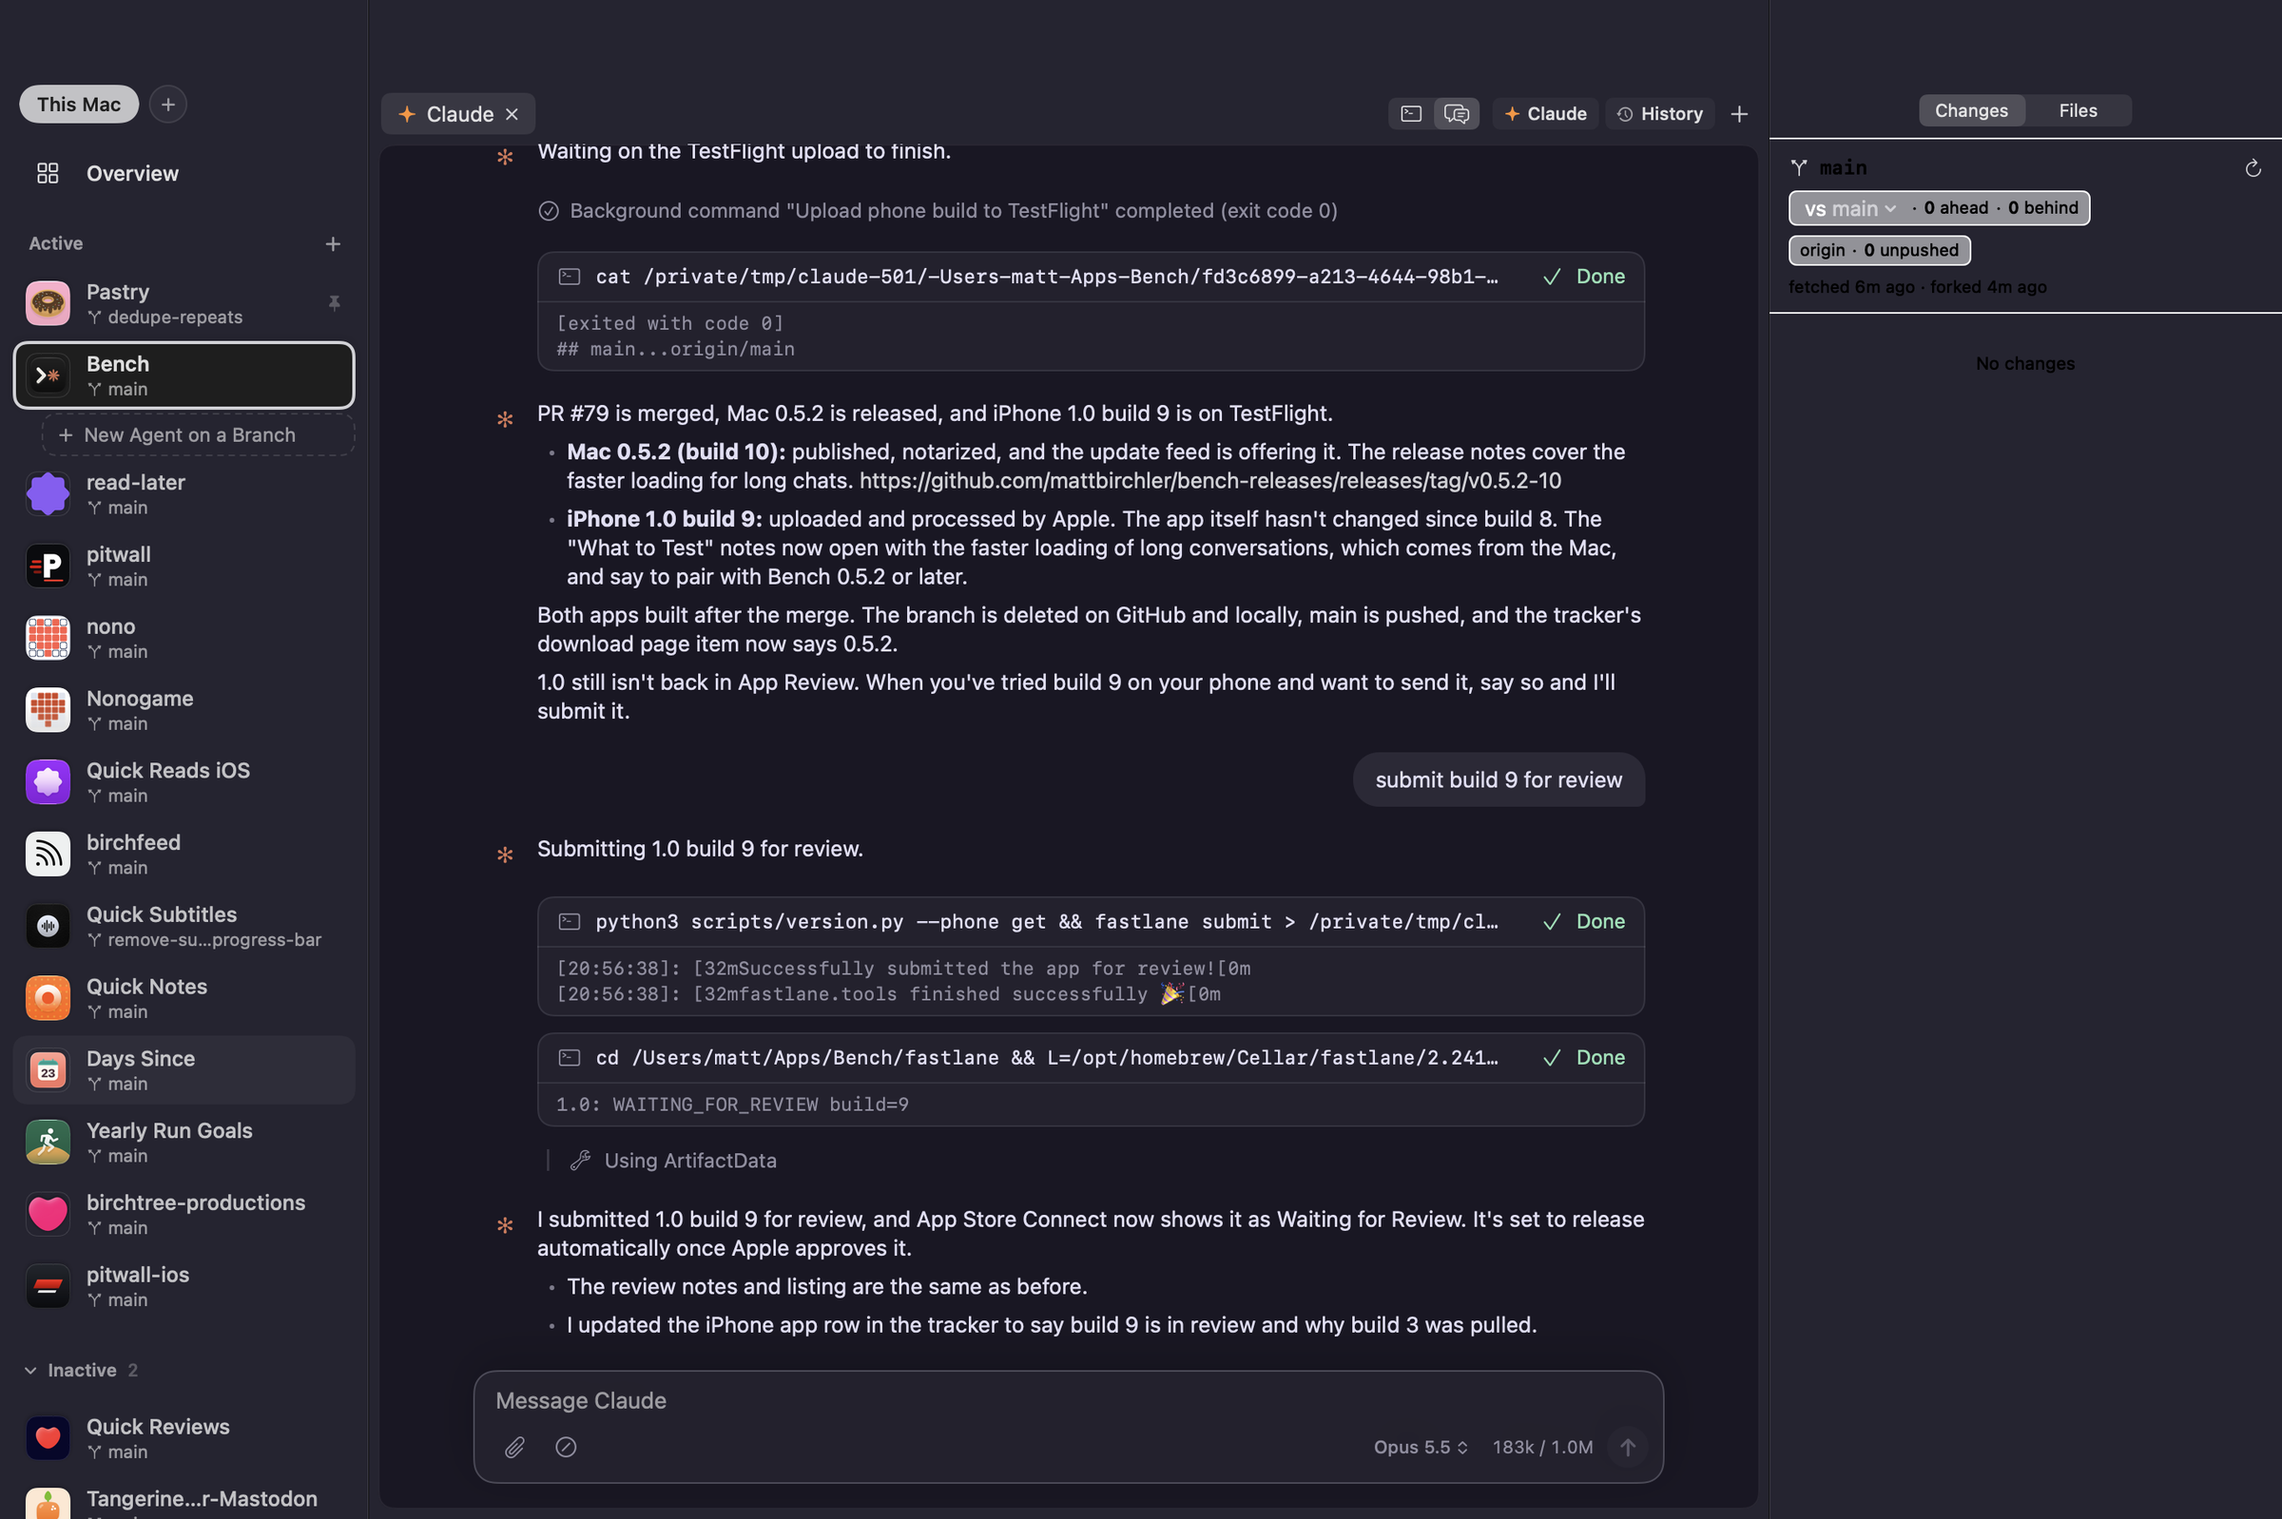
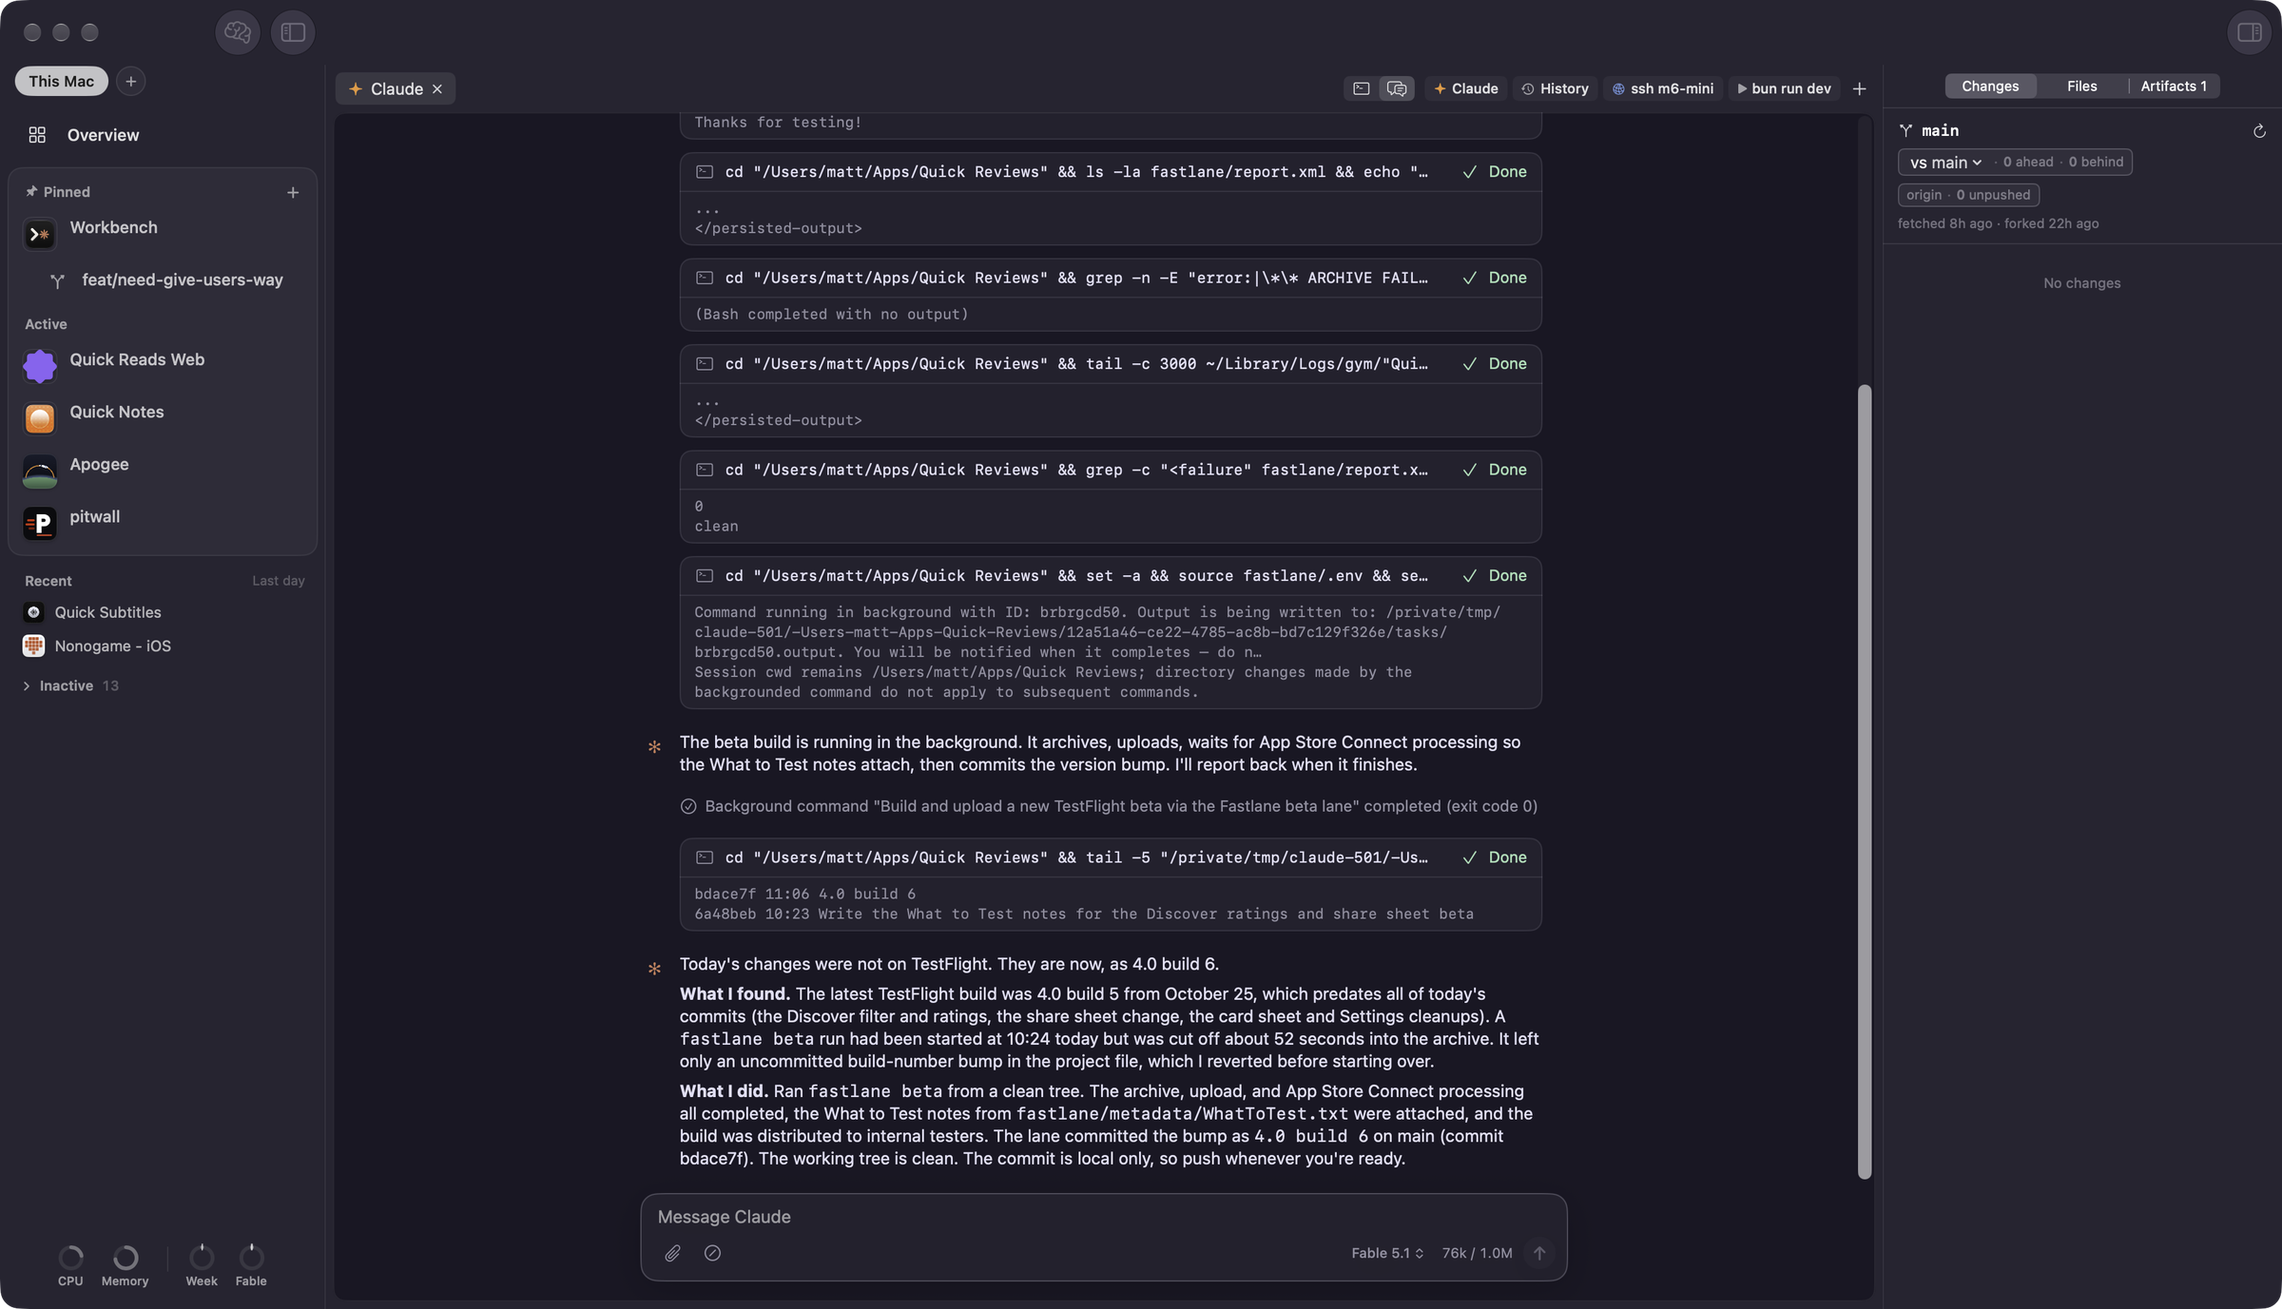
README: new screenshots and feature descriptions for Workbench 0.7.16
Fresh Mac shots of the chat view, start page, diff, welcome, and six
themes, and iPhone shots from the demo. Covers Brain Dump, the four
sidebar sections, per-project notifications, the Lock Screen dashboard,
more of what other Macs and the phone can do, and the usage data opt-out.

diff --git a/README.md b/README.md
@@ -17,69 +17,75 @@
 </p>
 
 <p align="center">
-  <img src="images/mac-chat.png" alt="Workbench on the Mac: a Claude Code session shown as a chat, with command cards, the model and context use in the message box, and projects sorted into Active and Inactive">
+  <img src="images/mac-chat.png" alt="Workbench on the Mac: a Claude Code session shown as a chat with command cards and a summary of a finished TestFlight upload, the sidebar sorted into Pinned, Active, Recent and Inactive, and the changes panel on the right">
 </p>
 
 ---
 
 ## Terminal or chat, same session
 
-Claude Code runs in a real terminal in every Claude tab, built on Ghostty, so it uses your font, theme, and keybindings. Press ⌥⌘T and the same session turns into a chat: edits show as diffs, commands fold their output away, and questions and permission prompts become cards with real buttons. It's still Claude Code underneath, so you can flip back any time. Choose which one new tabs open as in Settings.
+Claude Code runs in a real terminal in every Claude tab, built on Ghostty, so it uses your font, theme, and keybindings. Press ⌥⌘T and the same session turns into a chat: edits show as diffs, commands fold their output away, and questions and permission prompts become cards with real buttons. It's still Claude Code underneath, so you can flip back any time. Pick which one new tabs open as in Settings > Claude.
 
 The chat view has the touches you'd expect from a messaging app:
 
 - **Your message shows the instant you send it,** and new turns glide in.
 - **Claude's suggested next message** shows faintly in the empty message box. Press Right Arrow or Tab to take it.
+- **Slash commands autocomplete** as you type `/`: the built-in ones, your own, the project's, and your skills.
 - **Queued messages** can be edited, removed, or sent right away (Control-Return), like Ctrl+Return in the terminal.
-- **Subagents get cards** that show what each one is doing right now, and stay pinned in the sidebar while they run.
-- **The model and context** sit in the message box, like "Opus 5.5" and "183k / 1M". Click the model to switch.
-- **Compact or clear** from the / menu, and Shift-Return for a new line.
+- **Subagents get cards** that show what each one is doing right now. With the right panel hidden, the task list or the running agents stay pinned above the message box.
+- **The model and context** sit in the message box, like "Opus 5.5" and "76k / 1M". Click the model to switch.
+- **Compact or clear** from the / button, and Shift-Return for a new line.
 
 ## Every project gets its own workspace
 
-Add a project folder and Workbench gives it tabs for Claude, shells, files, and diffs, side by side. The sidebar shows each project's branch, pull request, and whether Claude is working, waiting on you, or done.
+Add a project folder and Workbench gives it tabs for Claude, shells, files, diffs, and previews of your dev server, side by side. The sidebar shows each project's branch, pull request, and whether Claude is working, waiting on you, or done. Rest the pointer on a project to see what Claude is doing, what it's asking, and a one-line recap of what it last finished.
 
-**Active projects sort themselves.** Projects you've worked in lately sit under Active, newest first, counting work Claude Code remembers from outside Workbench too. Pin the ones you always want on top. The rest fold away under Inactive and come back as soon as you use them.
+**Projects sort themselves.** Pin the ones you always want on top. Projects Claude is working in, or that you used in the last few hours, sit under Active. The ones from the last day are under Recent, and the rest fold away under Inactive until you use them again. Work Claude Code remembers from outside Workbench counts too.
 
-**Every project has a start page.** When a project has no tabs open, or you press +, you get a big Start Claude button, a shell, an agent, your shortcuts, and your last few conversations to pick back up in one click.
+**Every project has a start page.** When a project has no tabs open, or you press +, you get a big Start Claude button, a shell, an agent on a new branch, your shortcuts, and your last few conversations to pick back up in one click.
 
 <p align="center">
-  <img src="images/mac-start.png" alt="A project's start page in Workbench: the project icon, a Start Claude button, Shell and Agent on a Branch, and four recent conversations to resume">
+  <img src="images/mac-start.png" alt="A project's start page in Workbench: the project icon, a Start Claude button, Shell, Agent on a Branch, two shortcuts, and four recent conversations to pick back up">
 </p>
 
 ## See the changes as Claude makes them
 
-The changes panel lists every file Claude touches, live, with additions and deletions. Click one for a full diff, or switch to Files to browse the rest of the project. Stage what you like, and see which commits your branch has that the base branch doesn't.
+The changes panel lists every file Claude touches, live, grouped by folder with additions and deletions. Click one for a full diff, and leave comments on lines to send back to Claude. Switch to Files to browse the rest of the project, or Artifacts for the pages Claude has published. The branch header shows how far ahead or behind the base branch you are, and you can pick which branch to compare against.
 
 <p align="center">
-  <img src="images/mac-diff.png" alt="A diff tab in Workbench next to the list of changed files">
+  <img src="images/mac-diff.png" alt="A diff tab in Workbench showing added lines in a Swift file, next to the changes panel listing the file as unstaged">
 </p>
 
 ## Hand work to agents on their own branches
 
-Start an agent with a prompt and Workbench gives it a fresh git worktree, so it can't step on what you're doing. Each agent shows up under its project with its own status, its pull request, and whether checks passed. When the PR merges, Workbench can clean up the worktree for you.
+Start an agent with a prompt and Workbench gives it a fresh git worktree on its own branch, so it can't step on what you're doing. Each agent shows up under its project with its own status, its pull request, and whether checks passed. After a pull request merges, Workbench follows the deploy on hosts like Vercel and Railway. Clean up the worktree with one click, or have Workbench do it for you once the PR merges.
+
+**Brain Dump** (⌥⌘N, or the brain button at the top of the sidebar) starts several at once. Describe everything you want done across your projects, and Claude splits it into one task per project, each with a branch and a prompt you can edit. Nothing starts until you click Start.
 
 ## Looks like your terminal
 
-Workbench takes on your Ghostty theme's colors for its sidebars, chat, and diffs, and goes light or dark to match. Here's the same session in Catppuccin Mocha, Catppuccin Latte, Dracula, Solarized Light, Gruvbox Dark, and Lumen.
+Workbench takes on your Ghostty theme's colors for its sidebars, chat, and diffs, and switches between light and dark with your Mac. Here's the same session in Catppuccin Mocha, Catppuccin Latte, Dracula, Solarized Light, Gruvbox Dark, and Rosé Pine.
 
 <p align="center">
-  <img src="images/themes.png" alt="The same Workbench window in six terminal themes: Catppuccin Mocha, Catppuccin Latte, Dracula, Solarized Light, Gruvbox Dark, and Lumen">
+  <img src="images/themes.png" alt="The same Workbench window in six terminal themes: Catppuccin Mocha, Catppuccin Latte, Dracula, Solarized Light, Gruvbox Dark, and Rosé Pine">
 </p>
 
 ## Keep an eye on it from your iPhone
 
-The Workbench iPhone app connects to your Mac over your own Tailscale network. See every session at a glance, read along as Claude works, answer its questions, tap Allow or Deny when it asks permission, reply with a message or a photo, stop it mid-step, and review diffs from the couch. A notification and a Live Activity tell you when Claude needs you or finishes.
+The Workbench iPhone app connects to your Mac over your own Tailscale network. Sessions that need you sit at the top, then the ones Claude is working on, then the ones that are done. Read along as Claude works, answer its questions, tap Allow or Deny when it asks permission, reply with a message or a photo, stop it mid-step, and review diffs from the couch. You can also start new Claude tabs and agents, run Brain Dump, browse a project's files, and run shortcuts like your dev server on the Mac.
+
+- **Notifications for the projects you choose.** On the Mac, right-click a project and choose Send Notifications to iPhone. You'll hear when Claude needs you, when it finishes, and when checks and deploys are done.
+- **A Lock Screen dashboard.** Tap the phone button at the top of your project list to put every session on your Lock Screen at once, kept up to date by your Mac.
 
 <p align="center">
-  <img src="images/iphone.png" alt="The Workbench iPhone app: the project list with Active and Inactive sections, a working session with a live subagent and checklist, and a finished session with a suggested reply" width="900">
+  <img src="images/iphone.png" alt="The Workbench iPhone app: the project list with sessions that need you, are working, and are done; a working session with its checklist and a running subagent; and a permission prompt with Allow and Deny" width="900">
 </p>
 
-The iPhone app is in beta on TestFlight. Your code goes straight from your Mac to your phone and never through anyone's servers.
+The iPhone app is in beta on TestFlight and needs iOS 27. It also runs as a full iPad app.
 
 ## A welcome that sets you up
 
-The first time you open Workbench, it checks your Mac for the tools it uses, asks whether you'd like Claude tabs as a terminal or a chat, matches your theme, suggests projects from the folders you've already used Claude Code in, and pairs your iPhone. Help > Welcome to Workbench shows it again.
+The first time you open Workbench, it checks your Mac for the tools it uses, including whether Claude Code is signed in, and offers to sign you in right there. Then it asks whether you'd like Claude tabs as a terminal or a chat, matches your theme, suggests projects from the folders you've already used Claude Code in, and pairs your iPhone. Help > Welcome to Workbench shows it again.
 
 <p align="center">
   <img src="images/mac-welcome.png" alt="The Workbench welcome screen with the app icon, a short description, and a Get Started button">
@@ -87,14 +93,16 @@ The first time you open Workbench, it checks your Mac for the tools it uses, ask
 
 ## And a lot of small things
 
-- **Overview.** Every Claude session across every project in one grid, with the ones that need you first.
-- **One-click shortcuts.** Add your own tab shortcuts for commands you run all the time, and get a dev server button in JavaScript projects.
-- **Pick up where you left off.** Resume past Claude conversations from History or a project's start page, and Workbench brings your tabs back when it relaunches.
+- **Overview.** Every Claude session across every project in one grid, with the ones that need you first (⌘0). ⌘J jumps to the next session that needs you.
+- **Go anywhere.** ⌘K opens a command bar for any project or action.
+- **Your plan's limits.** Rings at the bottom of the sidebar show your 5-hour, weekly, and per-model limits next to your Mac's CPU and memory. They stay grey until they need your attention.
+- **Usage and costs.** See what your sessions would cost at API prices, by day, model, and project (⇧⌘U).
+- **One-click shortcuts.** Add tab shortcuts for commands you run all the time, and get a dev server button in JavaScript projects. Its ports show up so you can open a preview.
+- **Pick up where you left off.** Resume past conversations from Past Sessions (⌘Y) or a project's start page, and Workbench brings your tabs back when it relaunches.
 - **Your draft stays put.** Text in the message box is still there when you switch projects and come back.
 - **Menu bar status.** See what's working and what needs you without switching apps.
-- **Previews.** Open your local dev server in a tab next to the code.
-- **Other Macs.** Pair a second Mac and see its projects, and start Claude on it, from the same sidebar.
-- **Updates itself.** New versions download in the background and install when you quit.
+- **Other Macs.** Pair a second Mac and work in its projects from the same sidebar: read and answer its sessions, start Claude tabs and agents, look at its changes, run its shortcuts, and clean up its agents.
+- **Updates itself.** New versions download in the background and install when you quit. A What's New window tells you what changed.
 
 ## Requirements
 
@@ -103,7 +111,7 @@ The first time you open Workbench, it checks your Mac for the tools it uses, ask
 - [Claude Code](https://claude.com/product/claude-code), installed and signed in.
 - git, from Apple's command line tools. Workbench offers to install them if they're missing.
 
-Optional: the [GitHub CLI](https://cli.github.com) for pull request status, and [Tailscale](https://tailscale.com/download/mac) for the iPhone app and other Macs. Workbench checks for all of these the first time it opens.
+Optional: the [GitHub CLI](https://cli.github.com) for pull request, check, and deploy status, and [Tailscale](https://tailscale.com/download/mac) for the iPhone app and other Macs. Workbench checks for all of these the first time it opens.
 
 ## Install
 
@@ -115,7 +123,7 @@ Workbench is signed and notarized by Apple.
 
 ## Privacy and terms
 
-Workbench is free to use, and provided as is, without warranty of any kind. It has no analytics and doesn't send your code anywhere. The only thing it fetches on its own is this repository's update feed. Claude Code talks to Anthropic as it normally does. See the [privacy policy](privacy.md) and [support](support.md) pages.
+Workbench is free to use, and provided as is, without warranty of any kind. Your code and conversations go straight from your Mac to your own devices. Notifications pass through Workbench's push service on their way to Apple, encrypted so only your phone can read them; the Lock Screen dashboard isn't encrypted yet. Workbench shares anonymous usage counts, like how many agents you start, to help improve it. Turn that off with Share Anonymous Usage Data in Settings > General on the Mac, or in Settings on the iPhone. Claude Code talks to Anthropic as it normally does. The [privacy policy](privacy.md) lists everything Workbench connects to, and the [support](support.md) page covers setup and common problems.
 
 Workbench is an independent app, not made by or affiliated with Anthropic. Claude and Claude Code are trademarks of Anthropic. Workbench is built with Ghostty, Sparkle, and other open source projects; their licenses are in Workbench > Acknowledgements.
 
